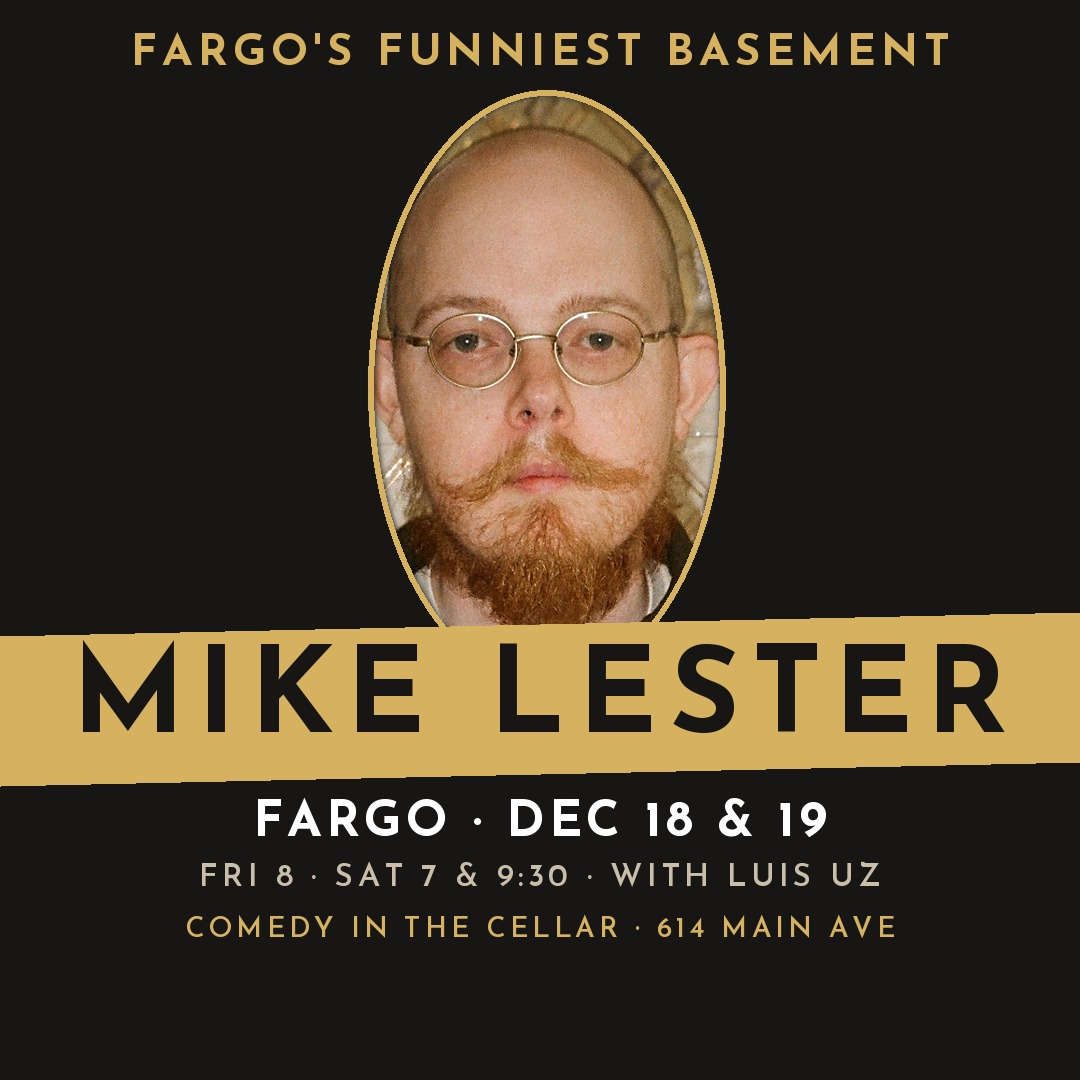
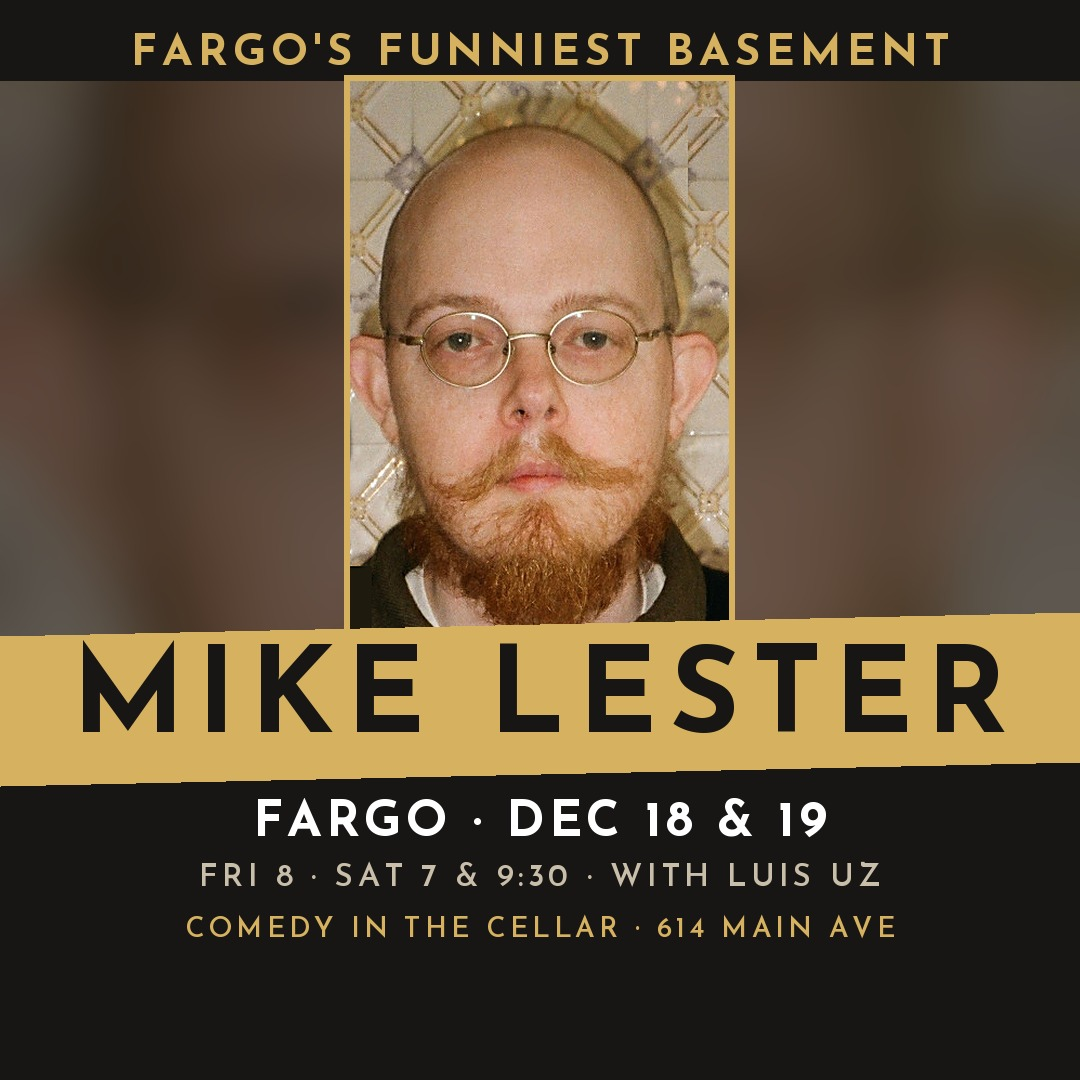
Mike Lester Fargo ads: rectangular photo, add bald version
Claude-Session: https://claude.ai/code/session_01QbTa9NZ2WRaDJeawb9qkmt

diff --git a/ads/mike-lester-fargo/make_ads.py b/ads/mike-lester-fargo/make_ads.py
@@ -1,5 +1,5 @@
 """Mike Lester (Comedy in the Cellar, Fargo, Dec 18-19 2026) Meta/Reddit ad images, 4:5 and 1:1.
-Photo: Mike cut from the venue's own flyer (venue-flyer.jpg) since it's his current look.
+Photo: Mike cropped from the venue's own flyer (venue-flyer.jpg) since it's his current look.
 Usage: python3 make_ads.py <fonts_dir> <out_dir>
 """
 import os, sys
@@ -11,10 +11,12 @@ F = lambda n, s: ImageFont.truetype(f"{FONTS}/{n}.ttf", s)
 DARK, GOLD, PALE, WHITE = (24, 22, 20), (214, 178, 96), (200, 190, 170), (255, 255, 255)
 
 flyer = Image.open(os.path.join(HERE, "venue-flyer.jpg")).convert("RGB")
-head = flyer.crop((250, 140, 700, 660))  # Mike's head, clear of flyer logos inside the ellipse
-mask = Image.new("L", head.size, 0)
-ImageDraw.Draw(mask).ellipse((72, 14, 392, 556), fill=255)
-mask = mask.filter(ImageFilter.GaussianBlur(3))
+# Mike's head from the flyer, with the flyer's logo bits patched out
+fl = flyer.copy()
+strip = fl.crop((308, 175, 346, 262)).transpose(Image.FLIP_LEFT_RIGHT)
+fl.paste(strip, (618, 175))
+fl.paste(fl.getpixel((345, 640)), (300, 590, 326, 670))
+head = fl.crop((306, 142, 656, 660))
 
 
 def spaced(d, cx, y, text, font, fill, sp):
@@ -38,14 +40,16 @@ def make(w, h, kicker, name):
     tall = h > w
     img = Image.new("RGB", (w, h), DARK)
     ph = int(h * (0.56 if tall else 0.52))
+    top = int(h * 0.075)
+    bg = head.resize((w, int(head.height * w / head.width)), Image.LANCZOS).filter(ImageFilter.GaussianBlur(28))
+    bg = Image.blend(bg, Image.new("RGB", bg.size, DARK), 0.6)
+    img.paste(bg.crop((0, (bg.height - ph) // 2, w, (bg.height - ph) // 2 + ph)), (0, top))
     s = ph / head.height
     p = head.resize((int(head.width * s), ph), Image.LANCZOS).filter(ImageFilter.UnsharpMask(2, 60, 2))
-    m = mask.resize(p.size, Image.LANCZOS)
-    px, py = (w - p.width) // 2, int(h * 0.075)
-    img.paste(p, (px, py), m)
+    px = (w - p.width) // 2
+    img.paste(p, (px, top))
     d = ImageDraw.Draw(img)
-    k = p.width / head.width  # gold cameo ring
-    d.ellipse((px + 72 * k - 6, py + 14 * k - 6, px + 392 * k + 6, py + 556 * k + 6), outline=GOLD, width=6)
+    d.rectangle((px - 6, top - 6, px + p.width + 5, top + ph + 5), outline=GOLD, width=6)
     spaced(d, w / 2, int(h * 0.03), kicker, fit(d, kicker, "JosefinSans-Bold", 44, 5, w - 100), GOLD, 5)
     y = int(h * 0.075) + ph - (40 if tall else 30)
     d.polygon([(0, y + 24), (w, y), (w, y + 150), (0, y + 174)], fill=GOLD)
@@ -63,6 +67,6 @@ def make(w, h, kicker, name):
     img.save(os.path.join(OUT, name), quality=92)
 
 
-for k, slug in [("FORMER EXTERMINATOR. CURRENT COMEDIAN.", "exterminator"), ("FARGO'S FUNNIEST BASEMENT", "basement")]:
+for k, slug in [("FORMER EXTERMINATOR. CURRENT COMEDIAN.", "exterminator"), ("FARGO'S FUNNIEST BASEMENT", "basement"), ("BALD. HAS A POMERANIAN. DOING FINE.", "bald")]:
     make(1080, 1350, k, f"mike-lester-{slug}-4x5.jpg")
     make(1080, 1080, k, f"mike-lester-{slug}-1x1.jpg")
